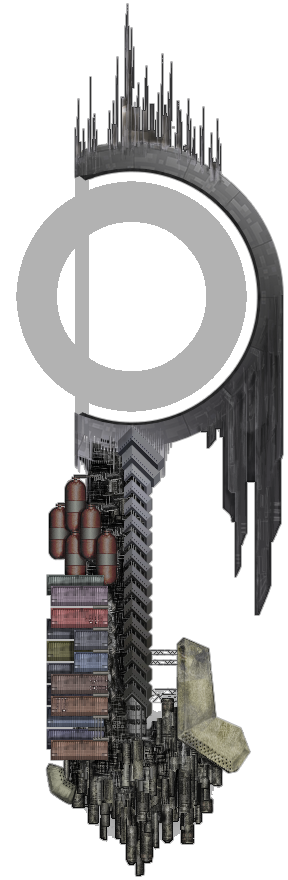
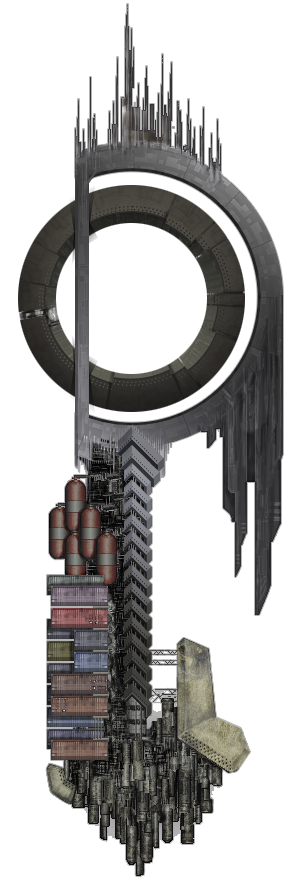
retribution hulk visuals improved + bugfixes

Changed region(s): [[0.0625, 0.1841, 0.875, 0.4909]]

diff --git a/data/scripts/plugins/TheNomadsRetributionWeaponPlugin.java b/data/scripts/plugins/TheNomadsRetributionWeaponPlugin.java
@@ -37,6 +37,9 @@ public class TheNomadsRetributionWeaponPlugin implements CombatEnginePlugin, Eve
 
 	public void advance( float amount, List events )
 	{
+		if( engine.isPaused() )
+			return;
+		
 		clock += amount; // for fang launch timings
 		interval.advance( amount );
 		if( !interval.intervalElapsed() )
@@ -49,7 +52,16 @@ public class TheNomadsRetributionWeaponPlugin implements CombatEnginePlugin, Eve
 			if( fang_hulks.containsKey( ship ))
 				continue; // already know about this one
 			if( ship.isHulk() && "nom_fang".equals( ship.getHullSpec().getHullId() ))
+			{
 				fang_hulks.put( ship, new Float( clock )); // mark time
+				// swap the ship sprite to the version without the missile
+				// swap ship sprite for the version without the missile
+				ship.setSprite( "nomads", "nom_fang_empty" );
+				// advance the weapon frame to the last frame, which is empty (weapon becomes hidden)
+				WeaponAPI launcher = get_retribution_weapon( ship );
+				launcher.getAnimation().setFrame( 2 ); // arm the missile visually
+				launcher.getAnimation().pause();
+			}
 		}
 		// check timers on known hulks
 		for( Iterator i = fang_hulks.entrySet().iterator(); i.hasNext(); )
@@ -66,8 +78,10 @@ public class TheNomadsRetributionWeaponPlugin implements CombatEnginePlugin, Eve
 			// if timer is elapsed, perform the launch actions.
 			if( clock >= found_clock_time + RETRIBUTION_LAUNCH_TIMER )
 			{
-				// swap ship sprite for the version without the missile
-				fang_hulk.setSprite( "nomads", "nom_fang_empty" );
+				// advance the weapon frame to the last frame, which is empty (weapon becomes hidden)
+				WeaponAPI launcher = get_retribution_weapon( fang_hulk );
+				launcher.getAnimation().setFrame( 0 );
+				launcher.getAnimation().pause();
 				// create the missile as if it had been launched from the ship
 				MissileAPI missile = (MissileAPI) engine.spawnProjectile( 
 				  fang_hulk, null, "nom_retribution_postmortem_launcher", 
